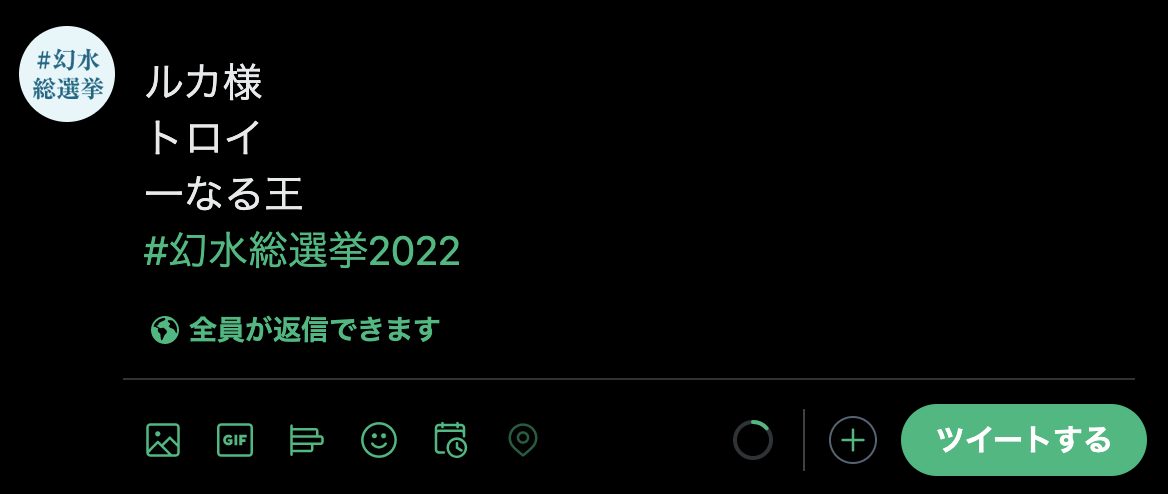
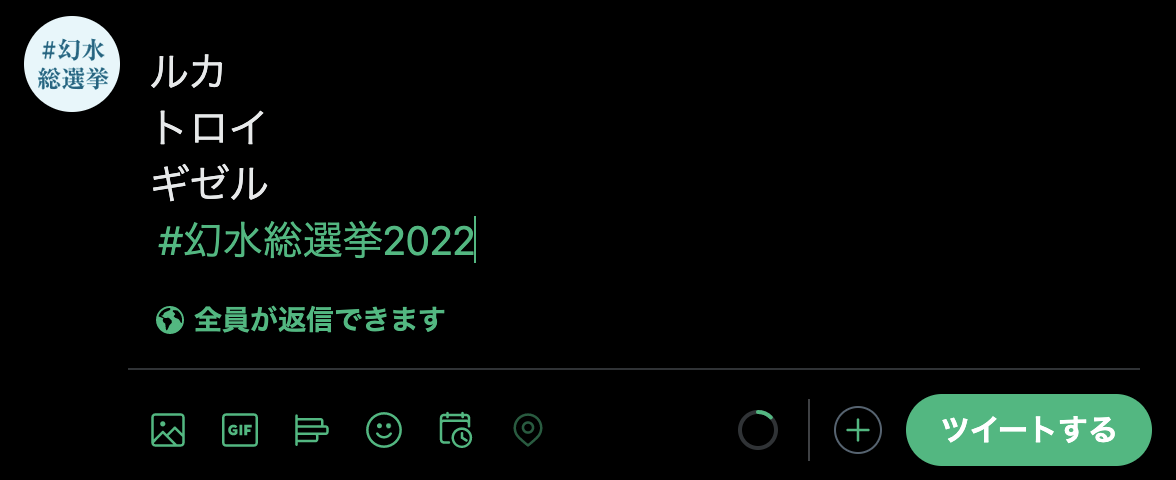
fix: 🐛 投票例の文言を修正

diff --git a/components/VoteExamples.tsx b/components/VoteExamples.tsx
@@ -22,7 +22,7 @@ const VoteExamples: NextPage = () => {
                 src="/vote_example_all_chara_01.png"
                 alt="オールキャラ部門 投票例 01"
                 width={1166}
-                height={332}
+                height={336}
               />
             </div>
 
@@ -33,8 +33,8 @@ const VoteExamples: NextPage = () => {
               <Image
                 src="/vote_example_all_chara_02.png"
                 alt="オールキャラ部門 投票例 02"
-                width={1168}
-                height={494}
+                width={1176}
+                height={480}
               />
             </div>
 
@@ -43,8 +43,8 @@ const VoteExamples: NextPage = () => {
               <Image
                 src="/vote_example_combination_01.png"
                 alt="コンビ部門 投票例 01"
-                width={1170}
-                height={332}
+                width={1182}
+                height={318}
               />
             </div>
 
@@ -53,8 +53,8 @@ const VoteExamples: NextPage = () => {
               <Image
                 src="/vote_example_combination_02.png"
                 alt="コンビ部門 投票例 02"
-                width={1170}
-                height={384}
+                width={1180}
+                height={370}
               />
             </div>
 
@@ -66,10 +66,10 @@ const VoteExamples: NextPage = () => {
               </div>
               <ul className="list-disc pl-6 pr-2">
                 <li className="pb-2">
-                  オールキャラ部門の投票はなるべく1ツイートに収めてください。
+                  オールキャラ部門とコンビ部門は、それぞれ別のツイートで投票してください。
                 </li>
                 <li className="pb-2">
-                  愛称を使わず、キャラクター名で投票して下さい。
+                  愛称を使わずキャラクター名で投票してください。
                   <br />
                   （「様」などはOK）
                 </li>
